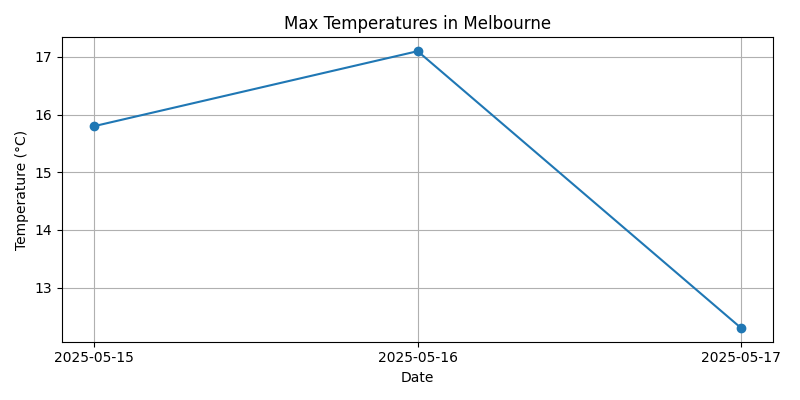
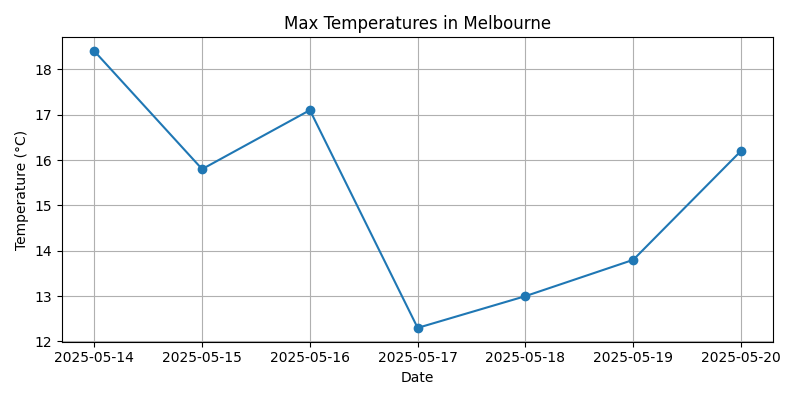
change to v1

diff --git a/weather_ai/runners/runner_weather.py b/weather_ai/runners/runner_weather.py
@@ -1,6 +1,6 @@
 from google.adk.sessions import InMemorySessionService
 from google.adk.runners import Runner
-from agents.weather_agent_v1 import weather_agent_v2
+from agents.weather_agent_v1 import weather_agent_v1
 
 # Session service setup
 session_service = InMemorySessionService()
@@ -17,5 +17,5 @@ session_service.create_session(
 
 # Create the runner
 runner = Runner(
-    agent=weather_agent_v2, app_name=APP_NAME, session_service=session_service
+    agent=weather_agent_v1, app_name=APP_NAME, session_service=session_service
 )

diff --git a/weather_ai/agents/weather_agent_v1.py b/weather_ai/agents/weather_agent_v1.py
@@ -6,7 +6,7 @@ from agents.plotting_agent import plotting_agent
 from config import MODEL
 
 
-weather_agent_v2 = Agent(
+weather_agent_v1 = Agent(
     name="weather_agent_v2",
     model=MODEL,
     description="""The main coordinator agent. Handles weather 

diff --git a/README.md b/README.md
@@ -6,7 +6,7 @@ This project implements a multi-agent system using the Google Agent Development 
 
 - **Weather Information:** Fetches weather data for a specified city using a local API and summarizes it using Google Gemini.
 - **Conversational AI:** Handles basic greetings and farewells through dedicated agents.
-- **Multi-Agent Architecture:** Uses a root agent (`weather_agent_v2`) to coordinate tasks and delegate to specialized sub-agents (`greeting_agent`, `farewell_agent`).
+- **Multi-Agent Architecture:** Uses a root agent (`weather_agent_v2`) to coordinate tasks and delegate to specialized sub-agents (`greeting_agent`, `farewell_agent`, `plot_weather`).
 - **Web Interface:** Provides a simple chat interface using Flask for user interaction.
 - **Configurable:** Model names and logging levels can be configured via `config.py` and environment variables.
 
